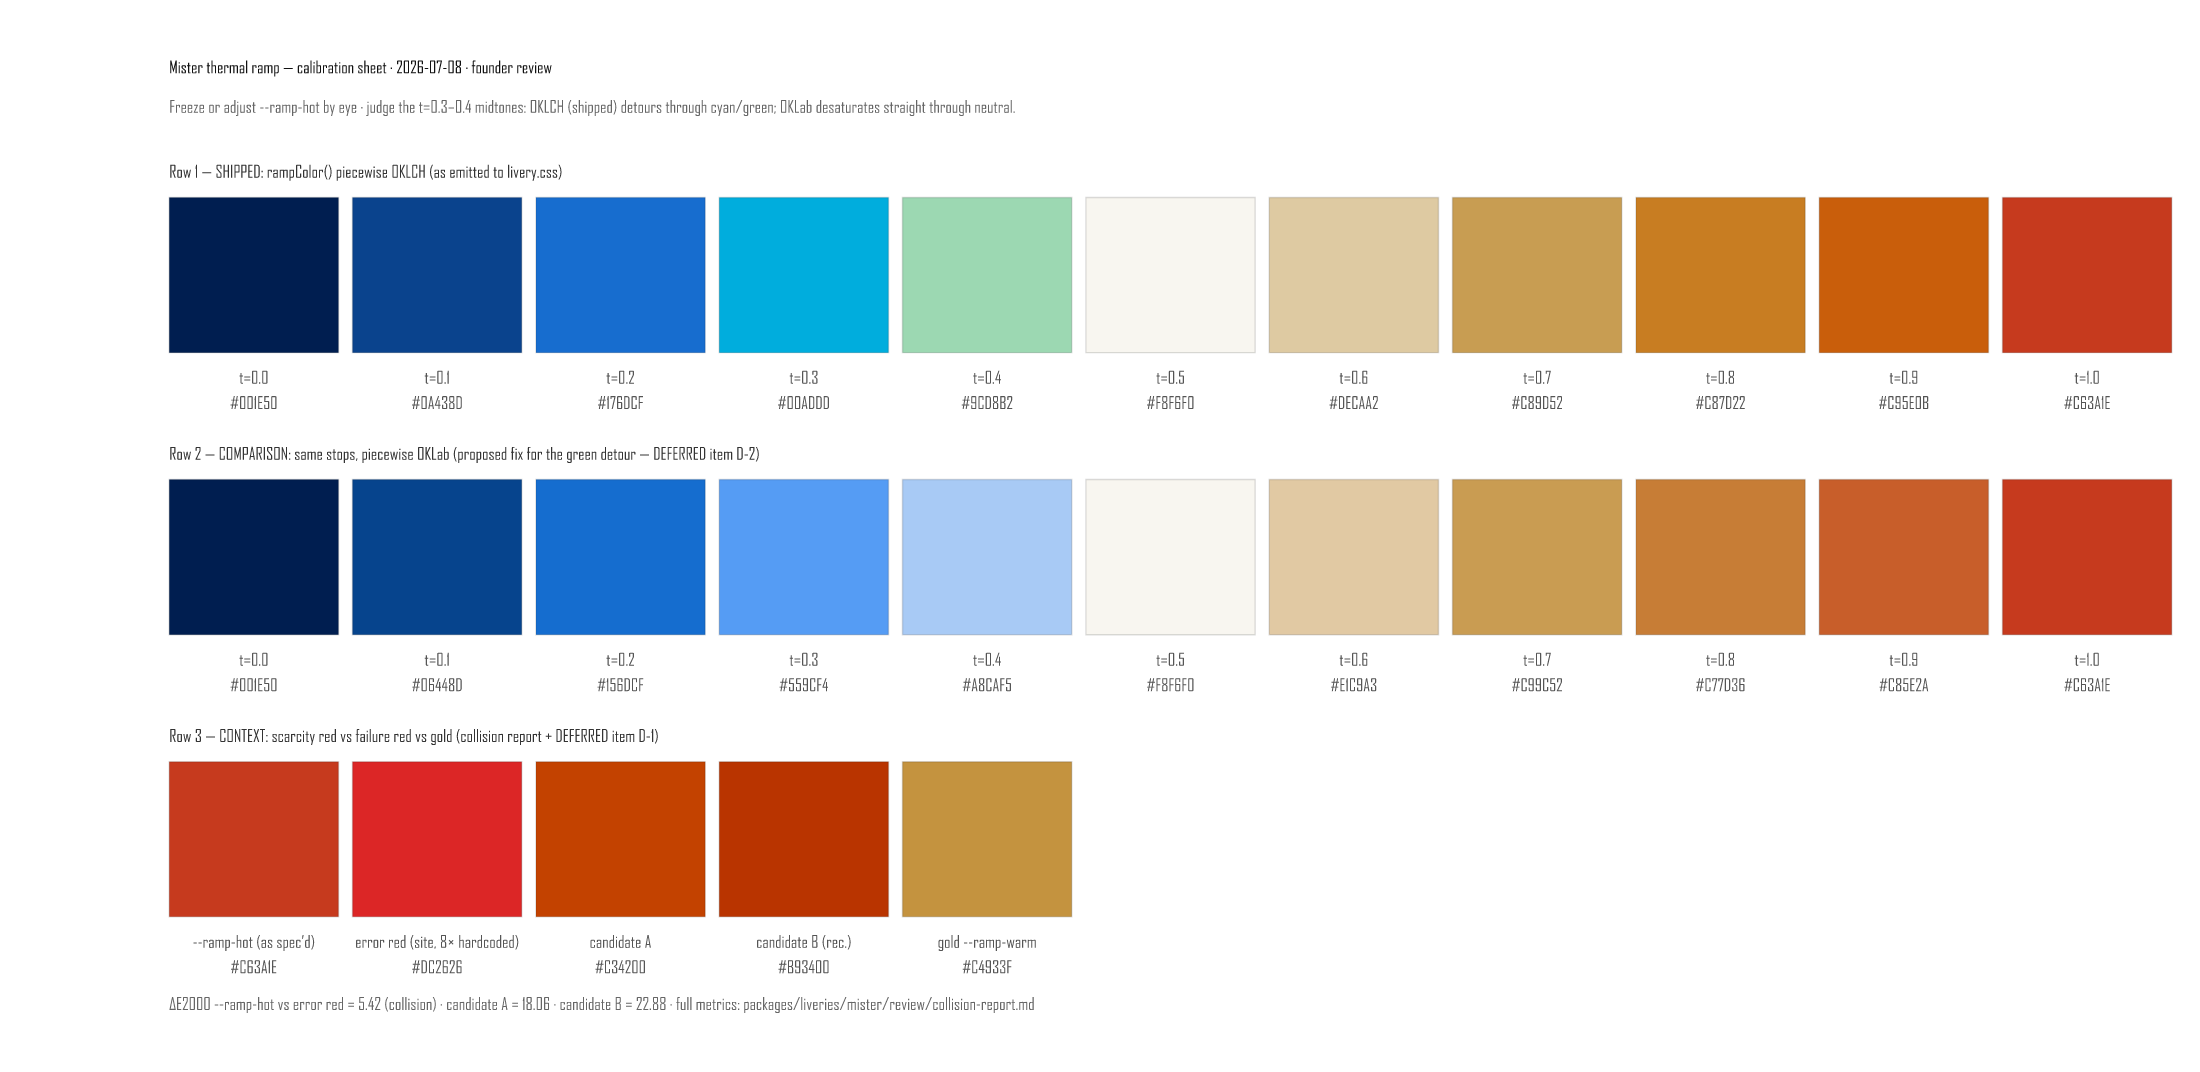
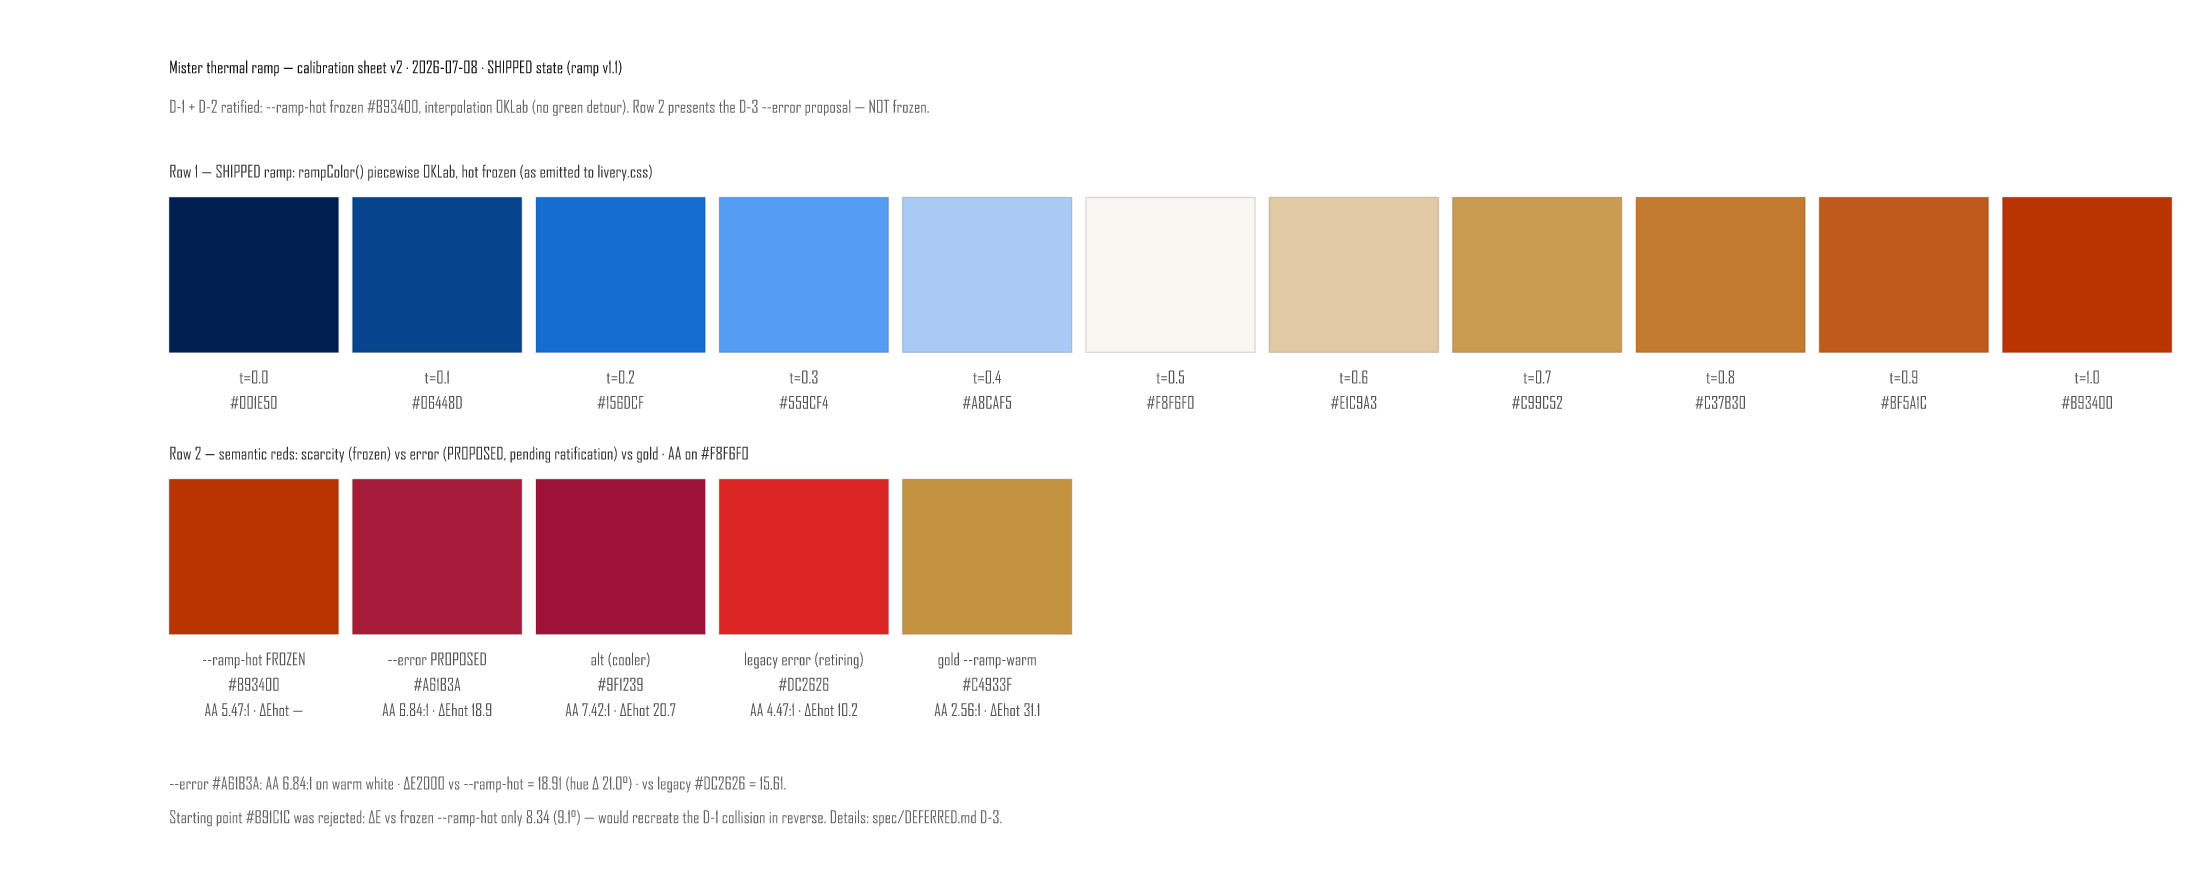
mister: freeze --ramp-hot #B93400, OKLab interpolation (D-1/D-2 ratified)
- ramp.ts v1.1: t=1.0 frozen at #B93400 (was #C63A1E, dE 5.42 from the
  error red); interpolation OKLCH->OKLab kills the cyan/green midtone
  detour. livery.css regenerated.
- Chroma-floor tests replaced with the hue-exclusion corridor suite:
  neutral (<0.02 chroma) or blue corridor [230,290] cold side / warm
  corridor [15,100] hot side; green/cyan band [100,220] fails at any
  visible chroma. Companion test proves the retired OKLCH mode violates
  the band. 15/15 green.
- Thesis -> v2.2 (2 changelog rows), expressive-layer spec -> v1.1
  (CRITICO signal hex), amendment record annotated.
- Both review sheets re-rendered to shipped state; DEFERRED D-1/D-2
  RESOLVED, D-4 CLOSED (refusal correct; favicon route = re-export from
  design source with separate blob primitives, never the flattened path).

diff --git a/packages/liveries/mister/ramp.test.ts b/packages/liveries/mister/ramp.test.ts
@@ -1,5 +1,5 @@
 import { describe, expect, it } from 'vitest'
-import { oklch } from 'culori'
+import { formatHex, interpolate, oklch } from 'culori'
 import { RAMP_STOPS, rampColor } from './ramp'
 
 const encodes = { encodes: 'test-fixture-variable' }
@@ -7,10 +7,10 @@ const encodes = { encodes: 'test-fixture-variable' }
 // oklch() types the return as `Oklch | undefined` because it also accepts
 // arbitrary strings that may fail to parse — every hex here is one this
 // module produced or a frozen ramp stop literal, so it always parses.
-function chromaOf(hex: string): number {
+function lch(hex: string): { c: number; h: number } {
   const color = oklch(hex)
   if (!color) throw new Error(`unparseable color in test fixture: ${hex}`)
-  return color.c ?? 0
+  return { c: color.c ?? 0, h: color.h ?? 0 }
 }
 
 describe('rampColor — endpoints', () => {
@@ -63,54 +63,58 @@ describe('rampColor — t clamping', () => {
   })
 })
 
-describe('rampColor — chroma floor (no muddy-grey dead zones)', () => {
-  // Measured (culori oklch(), this ramp, 2026-07-08) by sampling t from 0.25
-  // to 0.72 in steps of 0.01 (and re-verified at 0.001 resolution):
+describe('rampColor — hue-exclusion corridor (D-2 regression gate)', () => {
+  // Founder ruling D-2 (2026-07-08, spec/DEFERRED.md): the ramp is a thermal
+  // reading — its chromatic path may only occupy the blue corridor on the
+  // cold side and the warm corridor on the hot side. Green/cyan is not on
+  // the instrument's temperature register at ANY visible chroma: the old
+  // polar-OKLCH interpolation detoured the azul→white segment through
+  // h≈220°→150° (cyan→mint), which this suite exists to keep dead.
   //
-  //   - The ramp's chroma forms a smooth V centered exactly at the neutral
-  //     stop (t=0.5, #F8F6F0): chroma descends from ~0.188 at t=0.25 down
-  //     to ~0.0082 at t=0.5, then rises back to ~0.116 at t=0.72.
-  //   - The GLOBAL MINIMUM across the whole band is ~0.0082, occurring
-  //     exactly at t=0.5 — the warm-white stop is near-neutral BY DESIGN
-  //     (spec: "intentionally near-neutral"), so this is not a dead zone.
-  //   - Outside a +/-0.03 window around the neutral stop, the measured
-  //     floor is ~0.0222 (at t=0.53). That is the number that matters:
-  //     it proves OKLCH interpolation does not introduce a SECOND, wider
-  //     dead zone anywhere else in the segment — chroma only ever
-  //     bottoms out in the immediate neighborhood of the neutral stop
-  //     itself, never between arbitrary points on a segment (which is
-  //     the muddy-grey failure mode RGB lerp would produce here).
-  const NEUTRAL_WINDOW = 0.03
-  const OUTSIDE_WINDOW_FLOOR = 0.02
+  // Measured (culori, OKLab piecewise, 2026-07-08, t sampled 0..1 @ 0.01):
+  //   cold-side chromatic hues span 250.1°–259.3°; warm-side 36.6°–81.5°;
+  //   chroma < NEUTRAL_THRESHOLD only inside t ∈ [0.47, 0.53] around the
+  //   warm-white stop. Corridors below carry margin around those spans.
+  const NEUTRAL_THRESHOLD = 0.02 // below this a sample is neutral; hue is noise
+  const COLD_CORRIDOR = [230, 290] as const // blue; measured 250.1–259.3
+  const WARM_CORRIDOR = [15, 100] as const // gold→burnt orange; measured 36.6–81.5
+  const GREEN_CYAN_BAND = [100, 220] as const // fail here at any visible chroma
 
-  it('never dips into muddy grey between stops (outside the neutral stop\'s own neighborhood)', () => {
-    const samples: { t: number; c: number }[] = []
-    for (let i = 0; i <= 47; i++) {
-      const t = 0.25 + i * 0.01
-      samples.push({ t, c: chromaOf(rampColor(t, encodes)) })
-    }
+  const inBand = (h: number, [lo, hi]: readonly [number, number]) =>
+    h >= lo && h <= hi
 
-    const outsideNeutralWindow = samples.filter(
-      (s) => Math.abs(s.t - 0.5) > NEUTRAL_WINDOW,
-    )
-    for (const s of outsideNeutralWindow) {
-      expect(s.c, `chroma dead zone at t=${s.t}`).toBeGreaterThan(
-        OUTSIDE_WINDOW_FLOOR,
-      )
+  it('every sample is neutral or inside its side\'s corridor — never green/cyan', () => {
+    for (let i = 0; i <= 100; i++) {
+      const t = i / 100
+      const { c, h } = lch(rampColor(t, encodes))
+      if (c < NEUTRAL_THRESHOLD) continue // neutral neighborhood — exempt
+
+      expect(
+        inBand(h, GREEN_CYAN_BAND),
+        `green/cyan hue ${h.toFixed(1)}° at t=${t} (chroma ${c.toFixed(3)}) — thermal ramp left the temperature register`,
+      ).toBe(false)
+
+      const corridor = t <= 0.5 ? COLD_CORRIDOR : WARM_CORRIDOR
+      expect(
+        inBand(h, corridor),
+        `hue ${h.toFixed(1)}° at t=${t} outside the ${t <= 0.5 ? 'cold/blue' : 'warm'} corridor [${corridor.join(', ')}]`,
+      ).toBe(true)
     }
   })
 
-  it('the neutral stop\'s own low point never dips below the neutral stop\'s own chroma', () => {
-    const neutralChroma = chromaOf(RAMP_STOPS[2].hex) // #F8F6F0
-    const EPSILON = 1e-4
-
-    for (let i = 0; i <= 47; i++) {
-      const t = 0.25 + i * 0.01
-      const c = chromaOf(rampColor(t, encodes))
-      expect(
-        c,
-        `chroma at t=${t} fell below the neutral stop's own chroma`,
-      ).toBeGreaterThanOrEqual(neutralChroma - EPSILON)
+  it('proves the gate catches the failure it was built for: polar-OKLCH azul→white violates the corridor', () => {
+    // The retired interpolation mode, reproduced locally. If this ever stops
+    // violating the band, the corridor bounds have gone soft — tighten them.
+    const oldSegment = interpolate(
+      [RAMP_STOPS[1].hex, RAMP_STOPS[2].hex],
+      'oklch',
+    )
+    const violations: number[] = []
+    for (let i = 1; i < 25; i++) {
+      const { c, h } = lch(formatHex(oldSegment(i / 25)))
+      if (c >= NEUTRAL_THRESHOLD && inBand(h, GREEN_CYAN_BAND))
+        violations.push(h)
     }
+    expect(violations.length).toBeGreaterThan(0)
   })
 })

diff --git a/packages/liveries/mister/ramp.ts b/packages/liveries/mister/ramp.ts
@@ -1,18 +1,28 @@
 // packages/liveries/mister/ramp.ts
 //
 // The Mister thermal ramp — single source of truth for INSTRUMENT COLOR.
-// Governed by spec/WINGS_IMAGE_GENERATION_THESIS.md (Palette Law v2,
-// INSTRUMENT COLOR amendment 2026-07-08-B) and
+// Governed by spec/WINGS_IMAGE_GENERATION_THESIS.md (Palette Law,
+// INSTRUMENT COLOR — amendment 2026-07-08-B) and
 // spec/MISTER_EXPRESSIVE_LAYER_SPEC.md (Axis 2 — TEMPERATURE = DEMAND).
 //
-// Interpolation runs in OKLCH, not linear RGB: RGB interpolation across
-// these stops crosses through muddy grey dead zones in the midtones
-// (navy -> azul -> warm white -> gold -> signal red spans too much hue
-// and lightness for RGB lerp to stay legible as a "reading").
+// Interpolation runs in OKLab (rectangular), not linear RGB and not
+// polar OKLCH. RGB lerp crosses muddy grey dead zones in the midtones;
+// polar OKLCH inherits the near-neutral warm-white stop's arbitrary hue
+// angle and detours the azul->white segment through cyan/green (founder
+// ruling D-2, 2026-07-08 — see spec/DEFERRED.md). OKLab desaturates in
+// a straight line through neutral with no hue detour. The hue-exclusion
+// corridor test in ramp.test.ts is the regression gate for this.
 //
 // The ramp is never eyedropper-picked at a call site. `rampColor()` is
 // the only sanctioned color source, and it enforces the `encodes:` law:
 // every rendered color must be driven by a named variable, or it throws.
+//
+// CHANGELOG
+// | Date       | Ver | Change |
+// |------------|-----|--------|
+// | 2026-07-08 | 1.0 | Created (OKLCH piecewise; --ramp-hot #C63A1E pending calibration) |
+// | 2026-07-08 | 1.1 | --ramp-hot FROZEN at #B93400 (founder ratification D-1: #C63A1E was ΔE 5.42 from the error red — scarcity must not read as failure). Interpolation OKLCH→OKLab (founder ratification D-2: kill the cyan/green midtone detour). |
+export const RAMP_VERSION = '1.1'
 
 import { interpolate, formatHex } from 'culori'
 
@@ -30,8 +40,9 @@ export const RAMP_STOPS = [
   { t: 0.25, hex: '#1D83F2', token: '--ramp-active' },
   { t: 0.5, hex: '#F8F6F0', token: '--ramp-neutral' },
   { t: 0.72, hex: '#C4933F', token: '--ramp-warm' },
-  // FROZEN_PENDING_CALIBRATION — founder has not frozen this hex yet.
-  { t: 1.0, hex: '#C63A1E', token: '--ramp-hot' },
+  // FROZEN 2026-07-08 by founder ratification (D-1). Was #C63A1E, which sat
+  // ΔE2000 = 5.42 from the site error red — indistinguishable from failure.
+  { t: 1.0, hex: '#B93400', token: '--ramp-hot' },
 ] as const satisfies readonly RampStop[]
 
 /** Token names in ramp order, for callers that just need the CSS var names. */
@@ -50,7 +61,7 @@ export interface RampMeta {
 
 /**
  * Resolves a position on the thermal ramp to a hex color, interpolating
- * piecewise between the nearest two stops in OKLCH.
+ * piecewise between the nearest two stops in OKLab.
  *
  * Throws unless `meta.encodes` is a non-empty, non-whitespace string — a
  * gradient without a named variable behind it is a decoration, not a
@@ -85,6 +96,6 @@ export function rampColor(t: number, meta: RampMeta): string {
   }
 
   const localT = (clamped - lo.t) / (hi.t - lo.t)
-  const segment = interpolate([lo.hex, hi.hex], 'oklch')
+  const segment = interpolate([lo.hex, hi.hex], 'oklab')
   return formatHex(segment(localT))
 }

diff --git a/packages/liveries/mister/livery.css b/packages/liveries/mister/livery.css
@@ -1,6 +1,6 @@
 /* ============================================================
    GENERATED FROM ramp.ts — DO NOT EDIT.
-   Generated: 2026-07-08T18:54:06.654Z
+   Generated: 2026-07-08T19:18:46.156Z
    Regenerate with: pnpm --filter @wings/livery-mister build
    ============================================================ */
 
@@ -21,16 +21,16 @@
 [data-lane='mister'] {
   /* --- Thermal ramp (Axis 2 — TEMPERATURE = DEMAND) --- */
   --mister-ramp-0: #001E50;
-  --mister-ramp-10: #0a438d;
-  --mister-ramp-20: #176dcf;
-  --mister-ramp-30: #00addd;
-  --mister-ramp-40: #9cd8b2;
+  --mister-ramp-10: #06448d;
+  --mister-ramp-20: #156dcf;
+  --mister-ramp-30: #559cf4;
+  --mister-ramp-40: #a8caf5;
   --mister-ramp-50: #F8F6F0;
-  --mister-ramp-60: #decaa2;
-  --mister-ramp-70: #c89d52;
-  --mister-ramp-80: #c87d22;
-  --mister-ramp-90: #c95e0b;
-  --mister-ramp-100: #C63A1E;
+  --mister-ramp-60: #e1c9a3;
+  --mister-ramp-70: #c99c52;
+  --mister-ramp-80: #c37b30;
+  --mister-ramp-90: #bf5a1c;
+  --mister-ramp-100: #B93400;
 
   /* --- Fixed Mister brand tokens (spec/MISTER_LOGO_APPLICATION_STANDARD.md — COLOR LAW) --- */
   --mister-azul: #1D83F2;

diff --git a/spec/DEFERRED.md b/spec/DEFERRED.md
@@ -8,10 +8,12 @@ never deleted.
 
 ---
 
-## D-1 · Freeze or shift `--ramp-hot` (collision with error red) — OPEN
+## D-1 · Freeze or shift `--ramp-hot` (collision with error red) — RESOLVED
 
-**Status:** `#C63A1E` ships marked FROZEN_PENDING_CALIBRATION in
-`packages/liveries/mister/ramp.ts`; do not treat as frozen.
+**RESOLVED 2026-07-08:** founder ratified **Candidate B `#B93400`** —
+frozen in `ramp.ts` v1.1, thesis bumped to v2.2 (changelog rows there),
+expressive-layer spec to v1.1, `livery.css` regenerated. The calibration
+sheet was re-rendered to show the shipped state.
 
 **Finding:** the site has no error token — every error surface hardcodes
 `#DC2626` (8 sites, see D-3). `--ramp-hot #C63A1E` vs `#DC2626`:
@@ -34,7 +36,16 @@ thesis (INSTRUMENT COLOR lint `ramp` array changes with it).
 
 ---
 
-## D-2 · Ramp midtone interpolation: OKLCH detours through green — OPEN
+## D-2 · Ramp midtone interpolation: OKLCH detours through green — RESOLVED
+
+**RESOLVED 2026-07-08:** founder ratified piecewise **OKLab**. Shipped in
+`ramp.ts` v1.1; the chroma-floor tests were replaced by a hue-exclusion
+corridor suite (`ramp.test.ts`): every sample must be neutral (chroma
+< 0.02) or inside the blue corridor [230°, 290°] (cold side) / warm
+corridor [15°, 100°] (hot side); any hue in the green/cyan band
+[100°, 220°] at visible chroma fails. A companion test reproduces the
+retired OKLCH mode and asserts it violates the band — proof the gate
+catches the regression it was built for.
 
 **Finding:** piecewise OKLCH interpolation (as specified) swings the
 azul→warm-white segment through cyan/mint (`t=0.3 → #00ADDD`,
@@ -53,31 +64,42 @@ RGB grey the OKLCH mandate was protecting against. One-line change in
 
 ---
 
-## D-3 · No semantic error token — 8 hardcoded `#DC2626` literals — OPEN
+## D-3 · Semantic error token `--error` — IMPLEMENTED, PENDING RATIFICATION
 
-**Finding (side effect of D-1 analysis):** error styling hardcodes the
-raw hex in `packages/ui` (Toast, Input, Textarea, Select, RFQFlow) and
+**Finding (side effect of D-1 analysis):** error styling hardcoded
+`#DC2626` in `packages/ui` (Toast, Input, Textarea, Select, RFQFlow) and
 `apps/site` (QuotationForm ×3, ContactForm ×3) — violating Prime
-Directive 3 (semantic tokens only). Inventory in
+Directive 3. Inventory in
 `packages/liveries/mister/review/collision-report.md`.
 
-**Proposal:** introduce a semantic error token in the Tier-1/Tier-2 token
-system and sweep the 8 sites. Independent of the ramp decision, but decide
-D-1 first so the error hue is chosen with the scarcity hue on the table.
+**Implemented 2026-07-08 (value NOT frozen):** `--error: #A61B3A` (cool
+crimson) + alpha variants `--error-70/-40/-glow` defined in
+`packages/liveries/wings/livery.css` marked PROPOSED_PENDING_RATIFICATION;
+all 11 literal instances swept to the token with `#DC2626` fallbacks (so
+consumers without the wings livery keep legacy behavior). Swap test,
+typecheck, build green.
+
+**Why not the ordered starting point `#B91C1C`:** it sits ΔE2000 = 8.34 /
+9.1° hue from the frozen `--ramp-hot #B93400` — it would recreate the D-1
+collision in reverse. `#A61B3A` (hue 15.6°) gives ΔE 18.91 / 21.0° vs
+scarcity, AA 6.84:1 on warm white; the cooler alternative `#9F1239`
+(ΔE 20.67, AA 7.42:1) is on the sheet if more margin is wanted.
+
+**Ratify by eye:** `packages/liveries/mister/review/ramp-calibration-sheet.png`
+row 2. On ratification (or a different hex): update the four `--error*`
+values in the wings livery, remove the PROPOSED marker — call sites need
+no change.
 
 ---
 
-## D-4 · Favicon variant (deepened notches) — NO ACTION, noted
+## D-4 · Favicon variant (deepened notches) — CLOSED
 
-**Finding:** favicon gate PASSED — `mister-m-solid.svg` reads at 16/32 px
-under normal anti-aliased rendering; only a worst-case 1-bit/low-DPI
-downsample closes the upper counters. The deepen-the-notches favicon cut
-was deliberately NOT attempted by agents: the master's metaball M is a
-single flattened path whose junction necks cannot be edited in isolation
-without risking a contour move (= redraw, refused by the logo standard).
-
-**If ever wanted:** a designer cuts it in the vector source and submits
-`review/mister-m-favicon.proposed.svg`; it enters the registry only via a
-changelog row in `MISTER_LOGO_APPLICATION_STANDARD.md`.
+**CLOSED 2026-07-08 by founder ruling: no action — the refusal was
+correct.** The favicon gate PASSED (`mister-m-solid.svg` reads at
+16/32 px; only a worst-case 1-bit/low-DPI downsample closes the upper
+counters), and agents were right not to attempt deepening notches on the
+flattened master path. **If a favicon variant is ever needed, the legal
+route is re-export from the original design file with separate blob
+primitives — never editing the flattened path.**
 **Artifacts:** `packages/liveries/mister/review/favicon-gate.md` +
 `GATE-m-*.png`.

diff --git a/spec/WINGS_IMAGE_GENERATION_THESIS.md b/spec/WINGS_IMAGE_GENERATION_THESIS.md
@@ -1,5 +1,5 @@
 # Wings Global Trade — Image Generation Thesis
-**v2.1 · Authority document for all AI-generated and AI-processed imagery.
+**v2.2 · Authority document for all AI-generated and AI-processed imagery.
 Subordinate to `WINGS_VISUAL_THESIS.md` v2.0 — where they conflict, the
 parent thesis wins.**
 
@@ -272,7 +272,7 @@ The Mister thermal ramp (tokens frozen pending first-render calibration):
 | 0.25 | `--ramp-active` (Mister azul) | `#1D83F2` | Active / available |
 | 0.50 | `--ramp-neutral` (warm white) | `#F8F6F0` | Midpoint / equilibrium |
 | 0.72 | `--ramp-warm` (gold) | `#C4933F` | Warming / scarce |
-| 1.00 | `--ramp-hot` (signal) | `#C63A1E` | Critical / last units |
+| 1.00 | `--ramp-hot` (signal) | `#B93400` | Critical / last units — FROZEN 2026-07-08 (calibrated from `#C63A1E`, which sat ΔE 5.42 from the error red) |
 
 Binding rule: every appearance of the ramp is driven by a named variable
 with a legend; the variable is recorded in the asset's MANIFEST row
@@ -378,7 +378,8 @@ Machine-gate rules ship as `assets/image-generation/thesis.lint.json`:
   "livery": {"navy":"#001E50","gold":"#C4933F","warm_white":"#F8F6F0",
     "tolerance_deltaE": 12},
   "instrument_color": {
-    "ramp": ["#001E50","#1D83F2","#F8F6F0","#C4933F","#C63A1E"],
+    "ramp": ["#001E50","#1D83F2","#F8F6F0","#C4933F","#B93400"],
+    "interpolation": "oklab",
     "requires_manifest_field": "encodes",
     "permitted_surfaces": ["mister_ui","dataviz","mister_campaign"],
     "refused_surfaces": ["wings_core","backgrounds","register_B_grading"]
@@ -427,10 +428,12 @@ amendment lands as a changelog row and a version bump.
 | 2026-07-08 | 2.0 | Provenance | REJECTED.md log added | Close the learning loop |
 | 2026-07-08 | 2.1 | Palette Law | INSTRUMENT COLOR clause added; Mister thermal ramp tokenized | Thermal reference ingested; legalized as data-bound instrument color, refused as decoration. Ratified by founder 2026-07-08 |
 | 2026-07-08 | 2.1 | Evidence law | Extended to color: false temperature = fabricated claim | Urgency theater prevention. Ratified by founder 2026-07-08 |
+| 2026-07-08 | 2.2 | Instrument color | `--ramp-hot` FROZEN at `#B93400` (was `#C63A1E`) | Calibration D-1: `#C63A1E` sat ΔE2000 = 5.42 / 5.8° hue from the site error red — scarcity must never read as failure. Ratified by founder 2026-07-08 |
+| 2026-07-08 | 2.2 | Instrument color | Ramp interpolation fixed as piecewise OKLab (not polar OKLCH) | Calibration D-2: OKLCH inherits the near-neutral stop's hue angle and detours azul→white through cyan/green — off the temperature register. OKLab desaturates straight through neutral. Hue-exclusion corridor test in `packages/liveries/mister/ramp.test.ts` is the regression gate. Ratified by founder 2026-07-08 |
 
 ---
 
-*Maintained in: `spec/WINGS_IMAGE_GENERATION_THESIS.md` · v2.1, 2026-07-08.*
+*Maintained in: `spec/WINGS_IMAGE_GENERATION_THESIS.md` · v2.2, 2026-07-08.*
 *Operations: `assets/image-generation/CLAUDE.md` · Models:
 `assets/image-generation/RECRAFT-MODELS.md` · Canon:
 `assets/image-generation/CANON/` · Lint: `thesis.lint.json`*

diff --git a/spec/MISTER_EXPRESSIVE_LAYER_SPEC.md b/spec/MISTER_EXPRESSIVE_LAYER_SPEC.md
@@ -1,5 +1,5 @@
 # Mister — Expressive Layer Specification
-**v1.0 · Governs all expressive/ambient visual behavior of the Mister
+**v1.1 · Governs all expressive/ambient visual behavior of the Mister
 brand. Subordinate to `WINGS_VISUAL_THESIS.md` v2.0 and the INSTRUMENT
 COLOR amendment (2026-07-08-B). The mark itself is governed by
 `MISTER_LOGO_APPLICATION_STANDARD.md`.**
@@ -57,7 +57,7 @@ fields or isotherm contour bands. Always bound to a demand variable.
 | **FRÍO** | 0–40% | navy → azul | "Contenedor abierto" | Slow grain drift, cold field |
 | **TEMPLADO** | 40–70% | azul → warm white | "Llenándose" | Field brightens toward neutral |
 | **CALIENTE** | 70–90% | warm white → gold | "Quedan pocos cupos" | Gold isotherms appear at the fill edge |
-| **CRÍTICO** | 90–100% | gold → signal `#C63A1E` | "Quedan N cupos" | Hot band at the remaining-capacity edge; N is live |
+| **CRÍTICO** | 90–100% | gold → signal `#B93400` | "Quedan N cupos" | Hot band at the remaining-capacity edge; N is live |
 
 Laws:
 - State transitions are computed from the fill field — never set by hand.
@@ -139,6 +139,7 @@ excitement, any motion faster than its data changes.
 | Date | Ver | Change |
 |---|---|---|
 | 2026-07-08 | 1.0 | Created from the two canon studies (junction luminance; thermal contours). Two-axis law, FillMeter states, motion + implementation law. |
+| 2026-07-08 | 1.1 | Signal hex `#C63A1E` → `#B93400` (founder calibration D-1, frozen — see thesis v2.2 changelog); ramp interpolation fixed as piecewise OKLab (D-2). |
 
 *Maintained in: `spec/MISTER_EXPRESSIVE_LAYER_SPEC.md` · Tokens:
 `packages/liveries/mister/` · Parent: INSTRUMENT COLOR amendment.*

diff --git a/spec/WINGS_PALETTE_LAW_AMENDMENT_2026-07-08B.md b/spec/WINGS_PALETTE_LAW_AMENDMENT_2026-07-08B.md
@@ -2,7 +2,9 @@
 **Amendment 2026-07-08-B · Patches `WINGS_IMAGE_GENERATION_THESIS.md`
 v2.0 → v2.1 and extends `packages/liveries/` with the Mister thermal ramp.
 RATIFIED by founder 2026-07-08 — merged into the thesis (v2.1) same day;
-this file remains as the amendment record.**
+this file remains as the amendment record. NOTE: `--ramp-hot` was
+subsequently calibrated `#C63A1E` → `#B93400` and the interpolation fixed
+as OKLab (thesis v2.2, D-1/D-2) — the thesis is the living law.**
 
 ---
 

diff --git a/assets/image-generation/MANIFEST.md b/assets/image-generation/MANIFEST.md
@@ -30,3 +30,5 @@ row"). Geometry verbatim in all cuts; unit **b = 271.389** master units
 | `review/variant-contact-sheet.png` | Verification render: 3 variants × 16/32/64/128/512 px | @resvg true-px renders, labeled composite | 2026-07-08 |
 | `review/GATE-m-{16,32}{,-x20,-1bit50}.png` + `favicon-gate.md` | Favicon legibility gate evidence | Verdict PASS — m-solid ships for favicon use; no 4th variant (see `spec/DEFERRED.md` D-4) | 2026-07-08 |
 | `review/ramp-calibration-sheet.png` | Founder calibration render: shipped OKLCH ramp vs OKLab comparison vs scarcity/failure/gold context | culori + @resvg from `ramp.ts` stops; supports `spec/DEFERRED.md` D-1/D-2 | 2026-07-08 |
+| `review/ramp-calibration-sheet.png` (v2, supersedes 2026-07-08 v1) | Re-render after D-1/D-2 ratification: shipped OKLab ramp (v1.1, hot frozen `#B93400`) + semantic-reds row presenting the D-3 `--error` proposal with AA/ΔE annotations | culori + @resvg from `ramp.ts` v1.1 stops | 2026-07-08 |
+| `review/variant-contact-sheet.png` (v2, supersedes 2026-07-08 v1) | Re-render for shipped-state parity (geometry unchanged); true-px crisp renders instead of upscaled cells | @resvg true-px, dynamic layout | 2026-07-08 |